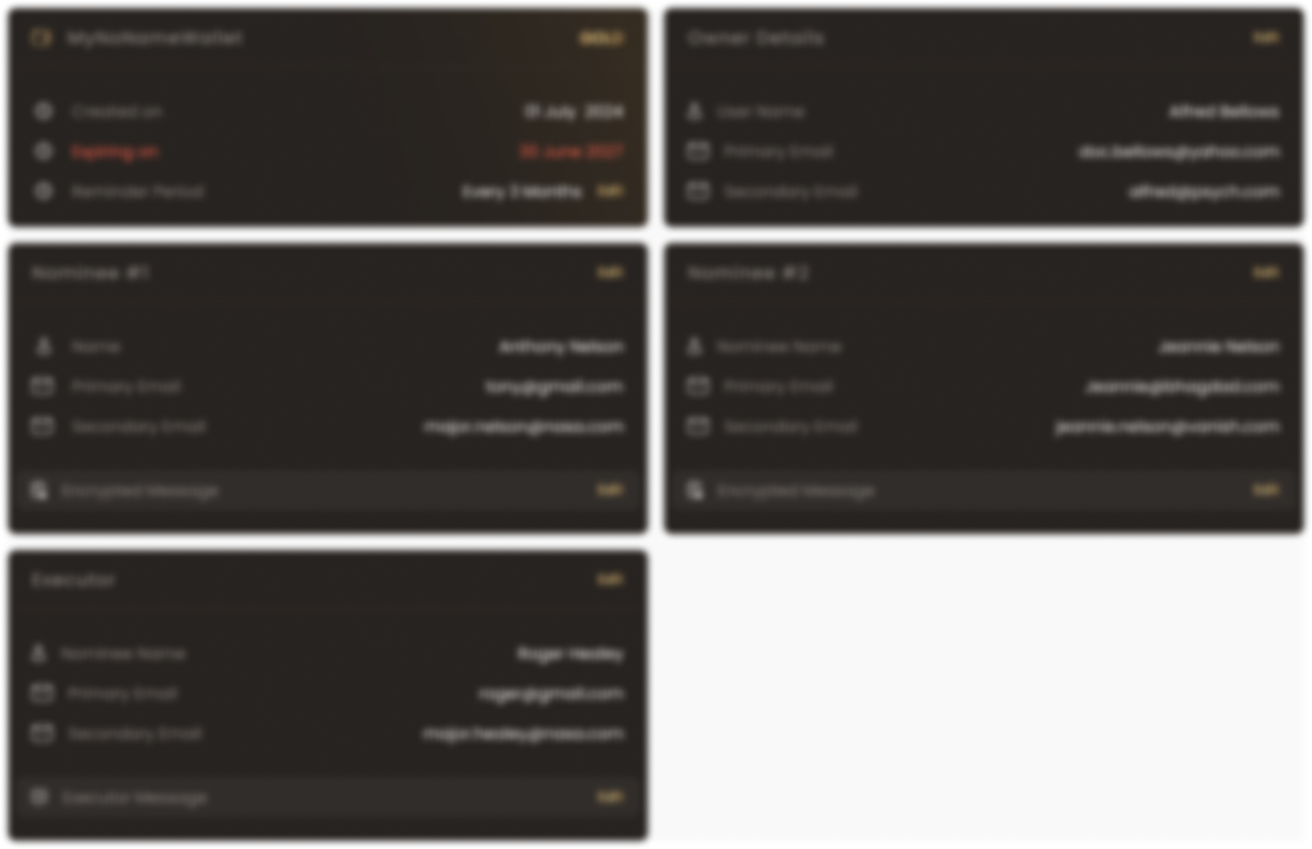
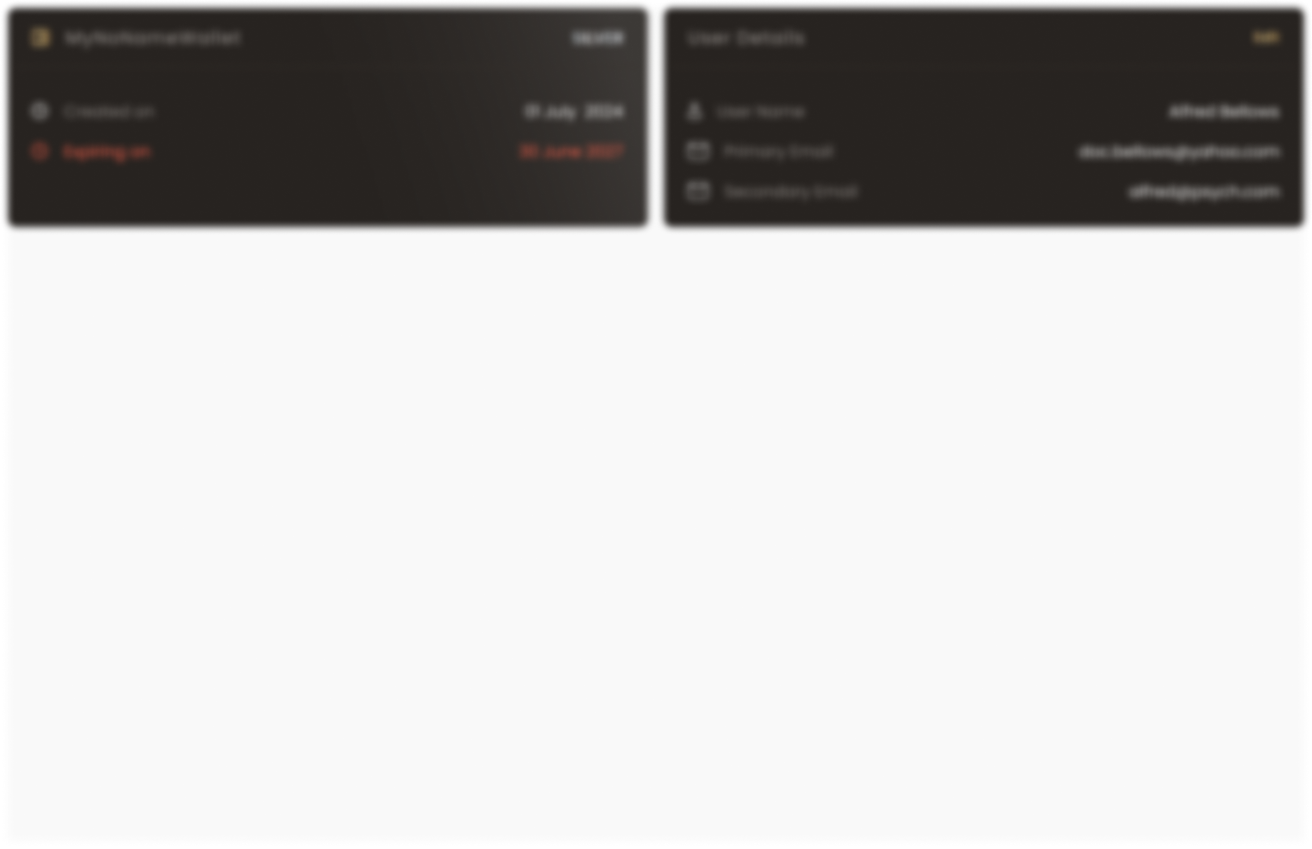
fix: updated image and lang strings for silver plan

diff --git a/packages/cysync-core/src/pages/MainApp/Inheritance/UnlockPlan.tsx b/packages/cysync-core/src/pages/MainApp/Inheritance/UnlockPlan.tsx
@@ -20,7 +20,7 @@ export const InheritanceUnlockPlan: FC = () => {
   const strings = lang.strings.inheritance;
   const navigate = useNavigate();
 
-  const currentPlan = 'gold';
+  const currentPlan = 'silver';
 
   const onBack = useCallback(() => {
     navigate(-1);
@@ -50,6 +50,14 @@ export const InheritanceUnlockPlan: FC = () => {
                 'impliment this function';
               }}
             >
+              {strings.buttons.upgradePlan}
+            </Button>
+            <Button
+              variant="primary"
+              onClick={() => {
+                'impliment this function';
+              }}
+            >
               {strings.buttons.renewPlan}
             </Button>
           </Flex>
@@ -74,7 +82,7 @@ export const InheritanceUnlockPlan: FC = () => {
             <Container
               height={145}
               width={145}
-              $bgColor="primary"
+              $bgColor="separator"
               display="flex"
               justify="center"
               align="center"
@@ -82,8 +90,8 @@ export const InheritanceUnlockPlan: FC = () => {
             >
               <Lock
                 fill={`url(#${svgGradients.gold})`}
-                width={45}
-                height={59}
+                width={68}
+                height={68}
               />
             </Container>
             <Button

diff --git a/packages/cysync-core-constants/src/i18n/types.ts b/packages/cysync-core-constants/src/i18n/types.ts
@@ -1019,6 +1019,7 @@ interface LangInheritance {
     recoverPin: string;
     renewPlan: string;
     unlock: string;
+    upgradePlan: string;
   };
   termsOfService: {
     title: string;
